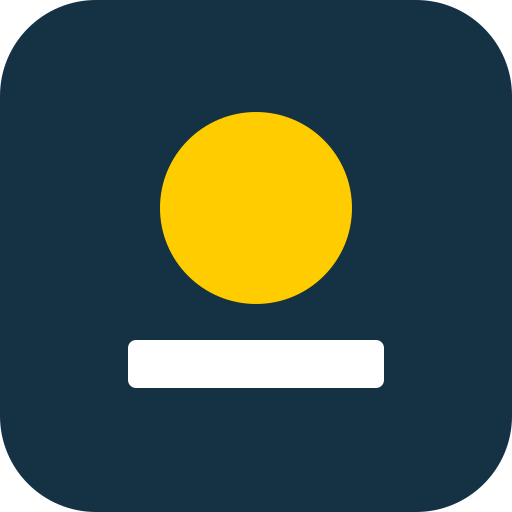
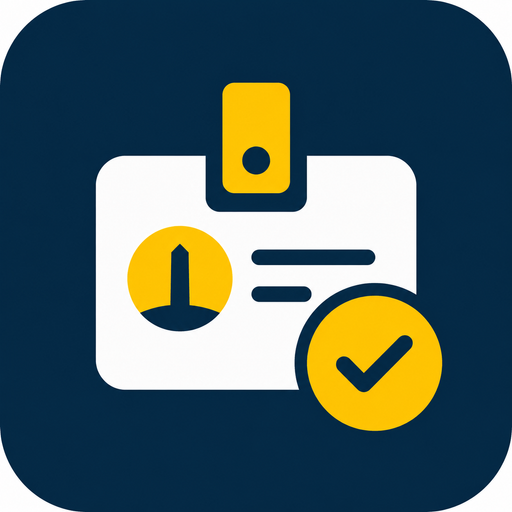
Actualizar icono PWA con credencial GCBA desde icono/cono.png.
Regenera favicon, apple-touch-icon y tamaños 192/512 para pantalla de inicio e instalación.

diff --git a/apps/web/index.html b/apps/web/index.html
@@ -2,7 +2,8 @@
 <html lang="es">
   <head>
     <meta charset="UTF-8" />
-    <link rel="icon" type="image/svg+xml" href="/favicon.svg" />
+    <link rel="icon" type="image/png" sizes="32x32" href="/favicon-32x32.png" />
+    <link rel="icon" type="image/png" sizes="192x192" href="/pwa-192x192.png" />
     <link rel="apple-touch-icon" href="/apple-touch-icon.png" />
     <meta name="viewport" content="width=device-width, initial-scale=1.0, viewport-fit=cover" />
     <meta name="theme-color" content="#153244" />

diff --git a/apps/web/vite.config.ts b/apps/web/vite.config.ts
@@ -16,7 +16,7 @@ export default defineConfig({
     react(),
     VitePWA({
       registerType: "autoUpdate",
-      includeAssets: ["favicon.svg", "pwa-icon.svg", "apple-touch-icon.png"],
+      includeAssets: ["favicon-32x32.png", "apple-touch-icon.png"],
       manifest: {
         name: "GCBA | Acreditación",
         short_name: "Acreditación",